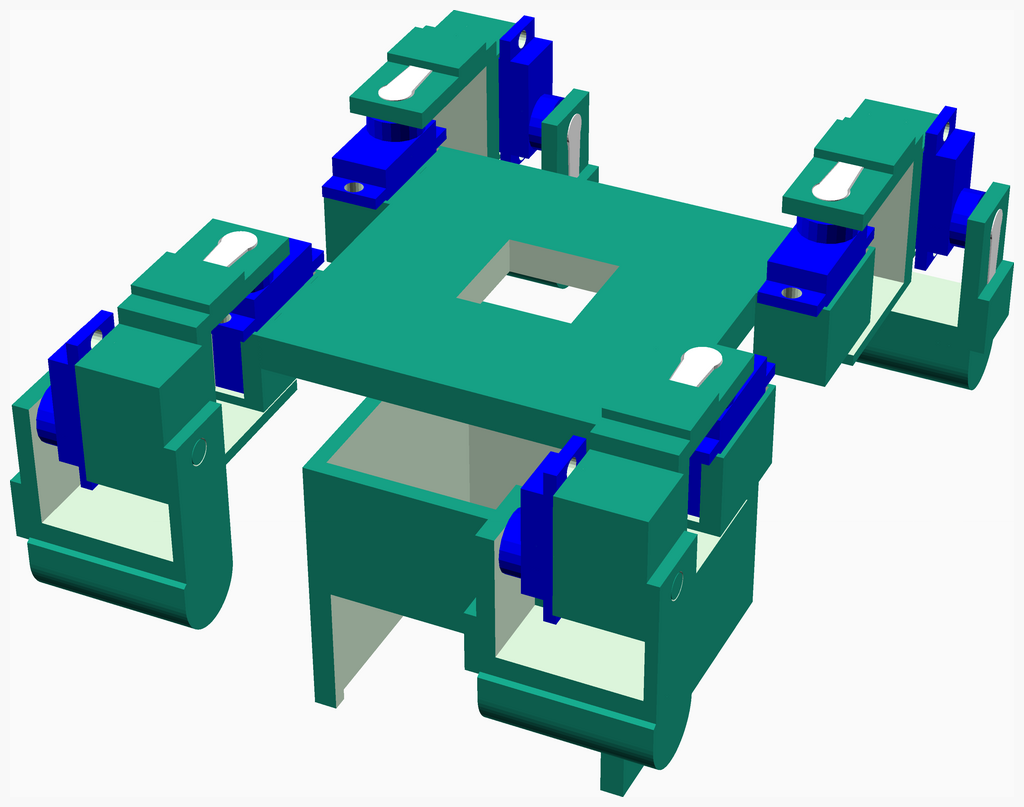
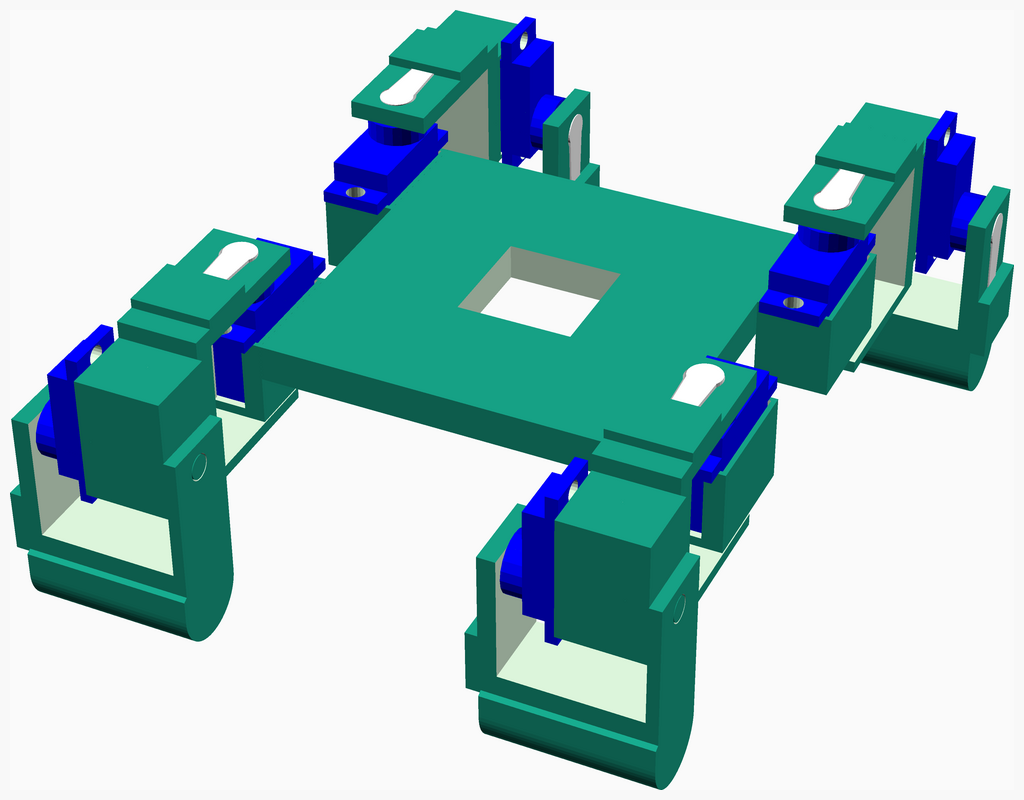
Update assemblies and instructions

diff --git a/hardware/readme.md b/hardware/readme.md
@@ -7,6 +7,7 @@
 ---
 ## Table of Contents
 1. [Parts list](#Parts_list)
+1. [Leg Foot Assembly](#leg_foot_assembly)
 1. [Main Assembly](#main_assembly)
 
 <span></span>
@@ -15,15 +16,37 @@
 ---
 <a name="Parts_list"></a>
 ## Parts list
-| <span style="writing-mode: vertical-rl; text-orientation: mixed;">Main</span> | <span style="writing-mode: vertical-rl; text-orientation: mixed;">TOTALS</span> |  |
-|---:|---:|:---|
-|  | | **3D printed parts** |
-| &nbsp;&nbsp;4&nbsp; |  &nbsp;&nbsp;4&nbsp; | &nbsp;&nbsp;base_holder.stl |
-| &nbsp;&nbsp;4&nbsp; |  &nbsp;&nbsp;4&nbsp; | &nbsp;&nbsp;foot.stl |
-| &nbsp;&nbsp;4&nbsp; |  &nbsp;&nbsp;4&nbsp; | &nbsp;&nbsp;leg.stl |
-| &nbsp;&nbsp;1&nbsp; |  &nbsp;&nbsp;1&nbsp; | &nbsp;&nbsp;main_body.stl |
-| &nbsp;&nbsp;1&nbsp; |  &nbsp;&nbsp;1&nbsp; | &nbsp;&nbsp;prop.stl |
-| &nbsp;&nbsp;14&nbsp; | &nbsp;&nbsp;14&nbsp; | &nbsp;&nbsp;Total 3D printed parts count |
+| <span style="writing-mode: vertical-rl; text-orientation: mixed;">4 x Leg&nbsp;Foot</span> | <span style="writing-mode: vertical-rl; text-orientation: mixed;">Main</span> | <span style="writing-mode: vertical-rl; text-orientation: mixed;">TOTALS</span> |  |
+|---:|---:|---:|:---|
+|  |  | | **3D printed parts** |
+| &nbsp;&nbsp;4&nbsp; | &nbsp;&nbsp;.&nbsp; |  &nbsp;&nbsp;4&nbsp; | &nbsp;&nbsp;foot.stl |
+| &nbsp;&nbsp;4&nbsp; | &nbsp;&nbsp;.&nbsp; |  &nbsp;&nbsp;4&nbsp; | &nbsp;&nbsp;leg.stl |
+| &nbsp;&nbsp;.&nbsp; | &nbsp;&nbsp;1&nbsp; |  &nbsp;&nbsp;1&nbsp; | &nbsp;&nbsp;main_body.stl |
+| &nbsp;&nbsp;8&nbsp; | &nbsp;&nbsp;1&nbsp; | &nbsp;&nbsp;9&nbsp; | &nbsp;&nbsp;Total 3D printed parts count |
+
+<span></span>
+[Top](#TOP)
+
+---
+<a name="leg_foot_assembly"></a>
+## 4 x Leg Foot Assembly
+### 3D Printed parts
+
+| 4 x foot.stl | 4 x leg.stl |
+|---|---|
+| ![foot.stl](stls/foot.png) | ![leg.stl](stls/leg.png) 
+
+
+
+### Assembly instructions
+![leg_foot_assembly](assemblies/leg_foot_assembly_tn.png)
+
+1. Remove support material from leg and foot parts
+2. Take the tab/joint for each servo and insert it into the slot on the leg and foot parts
+3. Insert a servo into the holder on the leg part
+4. Attach the foot part to the servo that was inserted into the leg part (this will require some force)
+
+![leg_foot_assembled](assemblies/leg_foot_assembled_tn.png)
 
 <span></span>
 [Top](#TOP)
@@ -33,19 +56,26 @@
 ## Main Assembly
 ### 3D Printed parts
 
-| 4 x base_holder.stl | 4 x foot.stl | 4 x leg.stl |
-|---|---|---|
-| ![base_holder.stl](stls/base_holder.png) | ![foot.stl](stls/foot.png) | ![leg.stl](stls/leg.png) 
+| 1 x main_body.stl |
+|---|
+| ![main_body.stl](stls/main_body.png) 
 
 
-| 1 x main_body.stl | 1 x prop.stl |
-|---|---|
-| ![main_body.stl](stls/main_body.png) | ![prop.stl](stls/prop.png) 
+
+### Sub-assemblies
+
+| 4 x leg_foot_assembly |
+|---|
+| ![leg_foot_assembled](assemblies/leg_foot_assembled_tn.png) 
 
 
 
 ### Assembly instructions
 ![main_assembly](assemblies/main_assembly.png)
+
+1. Remove support material from main body part
+2. Insert a servo motors into each of the corner holders
+3. Attach the leg/foot assembly to each servo on the main body
 
 ![main_assembled](assemblies/main_assembled.png)
 
